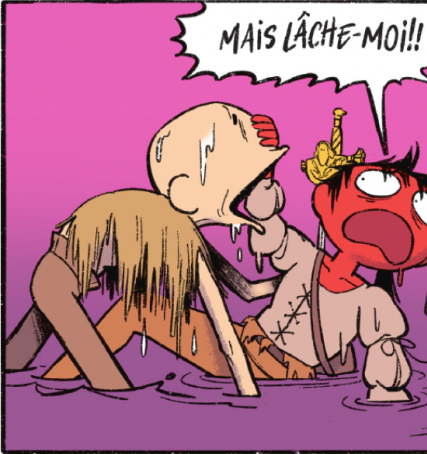
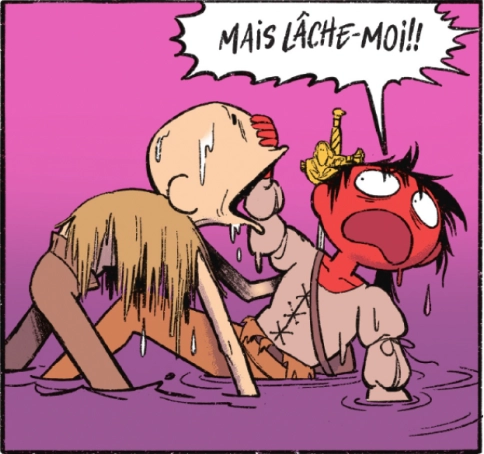
résolution de me animations, réglages de détails, ajout des liens externes

diff --git a/src/index.html b/src/index.html
@@ -27,7 +27,12 @@
           alt="logo Furieuse"
         />
       </h1>
-      <a href="#section-bd" class="buy-button">Acheter la BD</a>
+      <a
+        href="https://www.dargaud.com/bd/furieuse-bda5430320"
+        target="_blank"
+        class="buy-button"
+        >Acheter la BD</a
+      >
     </div>
     <div class="section-red">
       <p class="section-red-p">
@@ -44,15 +49,15 @@
           <div class="horizontal-scroll-box" id="img-carousel-1">
             <img class="img-carousel-1" src="/src/img/carousel1.webp" />
           </div>
-          <!-- <div class="horizontal-scroll-box" id="img-carousel-2">
+          <div class="horizontal-scroll-box" id="img-carousel-2">
             <img class="img-carousel-2" src="/src/img/carousel2.webp" />
           </div>
           <div class="horizontal-scroll-box" id="img-carousel-3">
             <img class="img-carousel-3" src="/src/img/carousel3.webp" />
           </div>
           <div class="horizontal-scroll-box" id="img-carousel-4">
-            <img class="img-carousel-4" src="/src/img/carousel4.png" />
-          </div> -->
+            <img class="img-carousel-4" src="/src/img/carousel4.webp" />
+          </div>
         </div>
       </div>
       <div class="h2-container">
@@ -70,7 +75,7 @@
       <div class="section-green-box section-green-box-2">
         <img
           class="section-green-img-2"
-          src="/src/img/green_ysa2.png"
+          src="/src/img/green_ysa2.webp"
           alt="Une image d'Ysa avec l'épée"
         />
       </div>
@@ -83,11 +88,12 @@
       </div>
     </div>
     <div class="section-bd" id="section-bd">
-      <img
-        class="bd-couverture"
-        src="/src/img/furieuse_couverture.webp"
-        alt="Une image de la BD furieuse"
-      />
+      <a href="https://www.dargaud.com/bd/furieuse-bda5430320" target="_blank">
+        <img
+          class="bd-couverture"
+          src="/src/img/furieuse_couverture.webp"
+          alt="Une image de la BD furieuse"
+      /></a>
       <div class="section-bd-text">
         <h3>Furieuse</h3>
         <p class="section-bd-p">
@@ -96,16 +102,22 @@
           faire sa place dans un monde intrépide dominé par les hommes.
         </p>
         <p class="reference">ISBN-13 9782205203226 240 pages 260x165</p>
-        <a class="buy-button-section-bd">J'achete</a>
+        <a
+          href="https://www.dargaud.com/bd/furieuse-bda5430320"
+          target="_blank"
+          class="buy-button-section-bd"
+          >J'achete</a
+        >
       </div>
     </div>
     <div class="footer">
       <div class="footer-left">
-        <img
-          class="logo-dargaud"
-          src="img/dargaud.png"
-          alt="Le logo de Dargaud"
-        />
+        <a href="https://www.dargaud.com/" target="_blank">
+          <img
+            class="logo-dargaud"
+            src="img/dargaud.png"
+            alt="Le logo de Dargaud"
+        /></a>
         <div class="socials">
           <a href="#"
             ><img src="img/instagram.png" alt="le logo d'Instagram"

diff --git a/src/js/main.js b/src/js/main.js
@@ -4,36 +4,6 @@ import { ScrollTrigger } from "gsap/ScrollTrigger";
 
 gsap.registerPlugin(ScrollTrigger);
 
-gsap.from(".section-green-box-1", {
-  left: "-10",
-  opacity: 0,
-  scrollTrigger: {
-    trigger: ".section-green-box-1",
-    start: "top bottom",
-    scrub: true,
-  },
-});
-
-gsap.from(".section-green-box-2", {
-  right: "-20",
-  opacity: 0,
-  scrollTrigger: {
-    trigger: ".section-green-box-2",
-    start: "top bottom",
-    scrub: true,
-  },
-});
-
-gsap.from(".section-green-box-3", {
-  left: "0",
-  opacity: 0,
-  scrollTrigger: {
-    trigger: ".section-green-box-1",
-    start: "top bottom",
-    scrub: true,
-  },
-});
-
 gsap.to(".buy-button", {
   top: 20,
   scrollTrigger: {
@@ -43,14 +13,43 @@ gsap.to(".buy-button", {
   },
 });
 
-// gsap.to(".horizontal-scroll-container", {
-//   xPercent: -200,
-//   ease: "none",
-//   scrollTrigger: {
-//     trigger: ".horizontal-scroll",
-//     start: "top top",
-//     end: "+=300%",
-//     scrub: true,
-//     pin: true,
-//   },
-// });
+gsap
+  .timeline()
+  .to(".horizontal-scroll-container", {
+    xPercent: -200,
+    ease: "none",
+    scrollTrigger: {
+      trigger: ".horizontal-scroll",
+      start: "top top",
+      // end: "+=300%",
+      scrub: true,
+      pin: true,
+    },
+  })
+  .from(".section-green-box-1", {
+    left: "-10",
+    opacity: 0,
+    scrollTrigger: {
+      trigger: ".section-green-box-1",
+      start: "top bottom",
+      scrub: true,
+    },
+  })
+  .from(".section-green-box-2", {
+    right: "-20",
+    opacity: 0,
+    scrollTrigger: {
+      trigger: ".section-green-box-2",
+      start: "top bottom",
+      scrub: true,
+    },
+  })
+  .from(".section-green-box-3", {
+    left: "0",
+    opacity: 0,
+    scrollTrigger: {
+      trigger: ".section-green-box-3",
+      start: "top bottom",
+      scrub: true,
+    },
+  });

diff --git a/src/scss/modules/_section-green.scss b/src/scss/modules/_section-green.scss
@@ -2,13 +2,14 @@
   width: 100%;
   height: 2821px;
   flex-shrink: 0;
-  background: url("/src/img/fond_vert.png") lightgray 50% / cover no-repeat;
+  background: url("/src/img/fond_vert.webp") lightgray 50% / cover no-repeat;
   backdrop-filter: blur(14.149999618530273px);
   position: relative;
 }
 
 .section-green-img-1 {
   position: absolute;
+  padding-top: 90px;
 }
 
 .section-green-img-2 {
@@ -30,11 +31,9 @@
 
 .section-green-box {
   text-align: center;
-  border: 2px solid #333;
 }
 
 .section-green-box-1 {
-  background-color: pink;
   position: absolute;
   left: 30%;
   top: 0;
@@ -48,7 +47,7 @@
   background-color: #f7799b;
   position: absolute;
   right: 19%;
-  top: 28%;
+  top: 32%;
   width: 450px;
   height: 927px;
 }
@@ -56,7 +55,7 @@
 .section-green-box-3 {
   position: absolute;
   left: 29%;
-  top: 59%;
+  top: 64%;
   background-color: #f5d8f5;
   width: 768px;
   height: 565px;

diff --git a/src/scss/modules/_button.scss b/src/scss/modules/_button.scss
@@ -1,0 +1,46 @@
+.buy-button {
+  position: fixed;
+  bottom: 20px;
+  right: 20px;
+  background-color: #e63946;
+  padding: 10px 20px;
+  text-decoration: none;
+  display: flex;
+  width: 290px;
+  height: 87px;
+  justify-content: center;
+  align-items: center;
+  color: #fff;
+  text-align: center;
+  font-family: Bokor;
+  font-size: 48px;
+  text-transform: uppercase;
+}
+
+.buy-button:hover {
+  color: #e63946;
+  background-color: #fff;
+}
+
+.buy-button-section-bd {
+  bottom: 20px;
+  right: 20px;
+  background-color: #e63946;
+  padding: 10px 20px;
+  text-decoration: none;
+  display: flex;
+  width: 290px;
+  height: 87px;
+  justify-content: center;
+  align-items: center;
+  color: #fff;
+  text-align: center;
+  font-family: Bokor;
+  font-size: 48px;
+  text-transform: uppercase;
+}
+
+.buy-button-section-bd:hover {
+  color: #e63946;
+  background-color: #fff;
+}

diff --git a/src/scss/modules/_section-bd.scss b/src/scss/modules/_section-bd.scss
@@ -40,26 +40,3 @@ h3 {
   padding-top: 42px;
   padding-bottom: 42px;
 }
-
-.buy-button-section-bd {
-  bottom: 20px;
-  right: 20px;
-  background-color: #e63946;
-  padding: 10px 20px;
-  text-decoration: none;
-  display: flex;
-  width: 290px;
-  height: 87px;
-  justify-content: center;
-  align-items: center;
-  color: #fff;
-  text-align: center;
-  font-family: Bokor;
-  font-size: 48px;
-  text-transform: uppercase;
-}
-
-.buy-button-section-bd:hover {
-  color: #e63946;
-  background-color: #fff;
-}

diff --git a/src/scss/modules/_header.scss b/src/scss/modules/_header.scss
@@ -13,27 +13,3 @@
   left: 77px;
   width: 50%;
 }
-
-.buy-button {
-  position: fixed;
-  bottom: 20px;
-  right: 20px;
-  background-color: #e63946;
-  padding: 10px 20px;
-  text-decoration: none;
-  display: flex;
-  width: 290px;
-  height: 87px;
-  justify-content: center;
-  align-items: center;
-  color: #fff;
-  text-align: center;
-  font-family: Bokor;
-  font-size: 48px;
-  text-transform: uppercase;
-}
-
-.buy-button:hover {
-  color: #e63946;
-  background-color: #fff;
-}

diff --git a/src/scss/modules/_horizontal-scroll.scss b/src/scss/modules/_horizontal-scroll.scss
@@ -20,5 +20,20 @@
 
 #img-carousel-1 {
   top: 0;
-  left: 0;
+  left: -160;
+}
+
+#img-carousel-2 {
+  top: 300px;
+  left: 330px;
+}
+
+#img-carousel-3 {
+  top: 0px;
+  right: -250px;
+}
+
+#img-carousel-4 {
+  top: 400px;
+  right: -650px;
 }

diff --git a/src/scss/main.scss b/src/scss/main.scss
@@ -9,3 +9,4 @@
 @import "modules/horizontal-scroll";
 @import "modules/section-bd";
 @import "modules/footer";
+@import "modules/button";

diff --git a/src/scss/modules/_section-red.scss b/src/scss/modules/_section-red.scss
@@ -45,4 +45,5 @@
   text-transform: uppercase;
   text-align: center;
   padding-bottom: 300px;
+  padding-top: 300px;
 }

diff --git a/src/scss/modules/_footer.scss b/src/scss/modules/_footer.scss
@@ -53,6 +53,6 @@
   padding-top: 90px;
 }
 
-.footer-right a {
+.footer a {
   text-decoration: none;
 }
